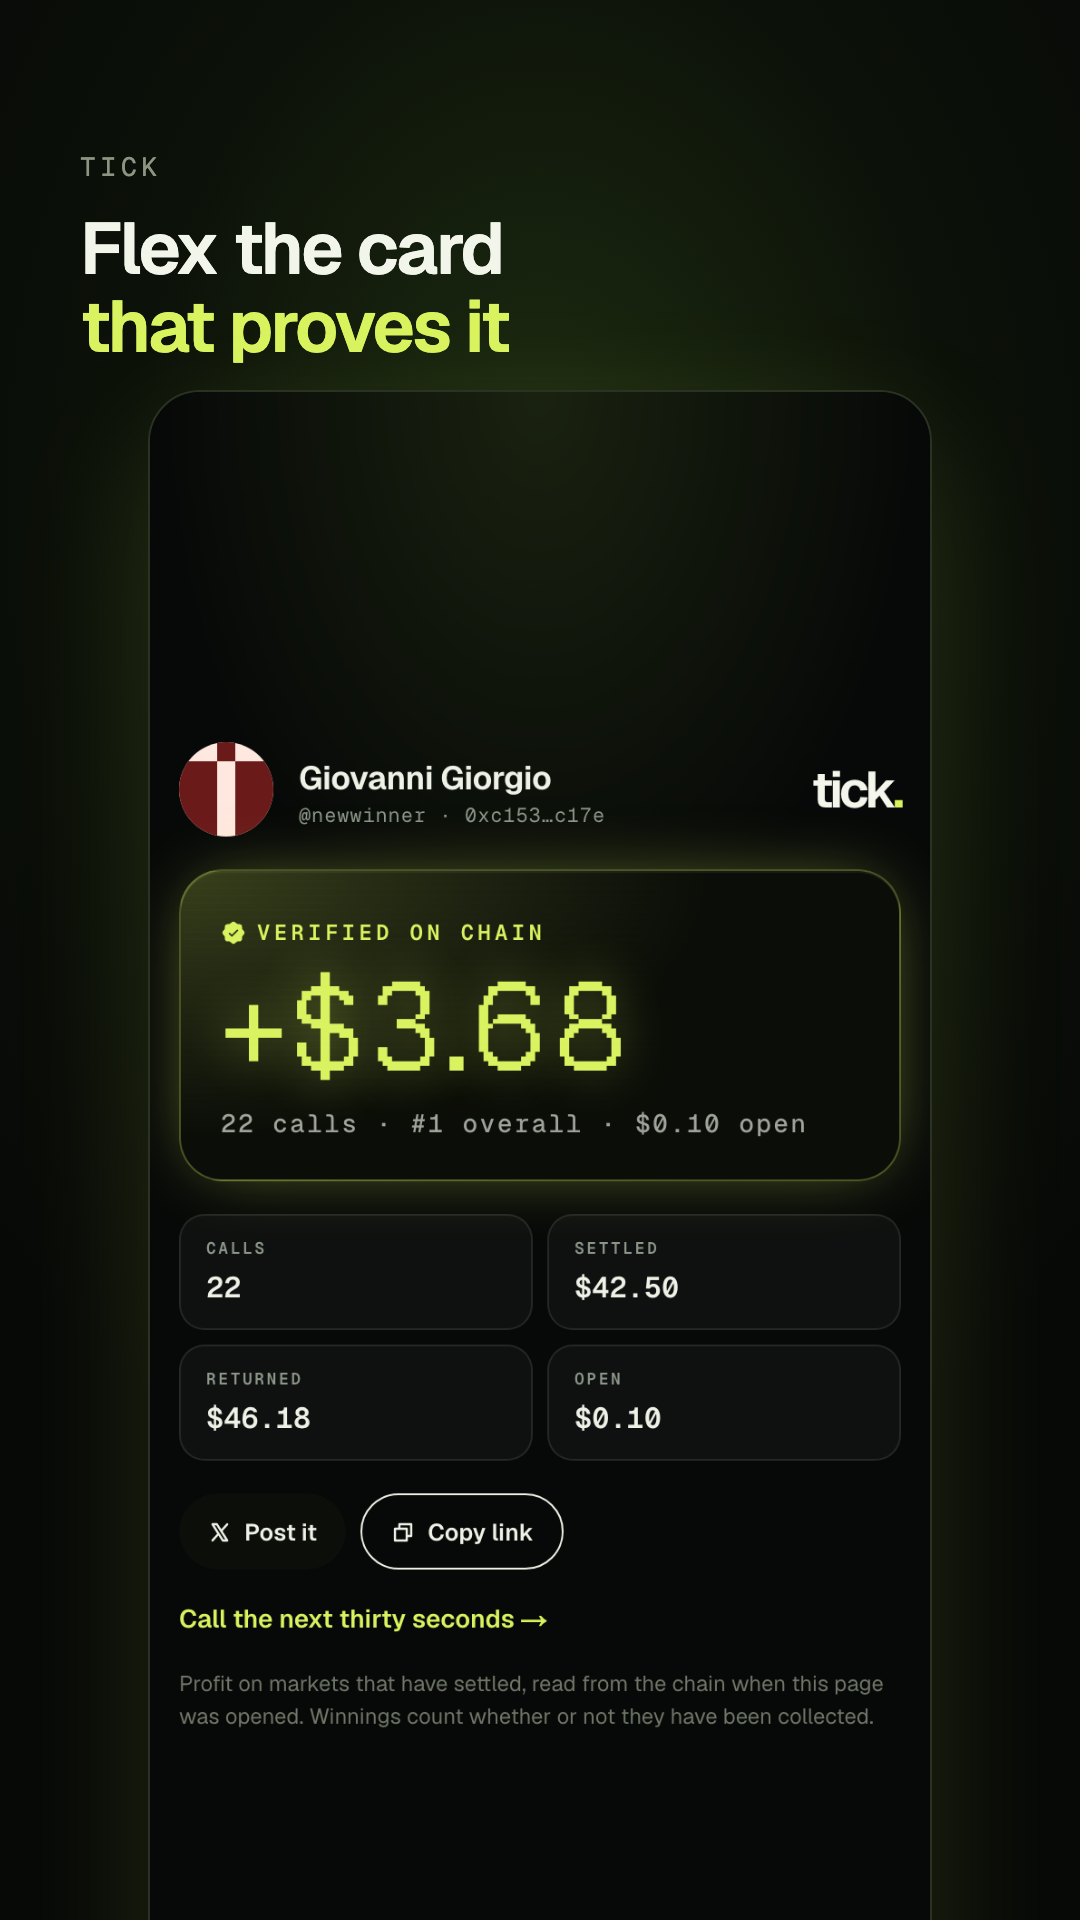
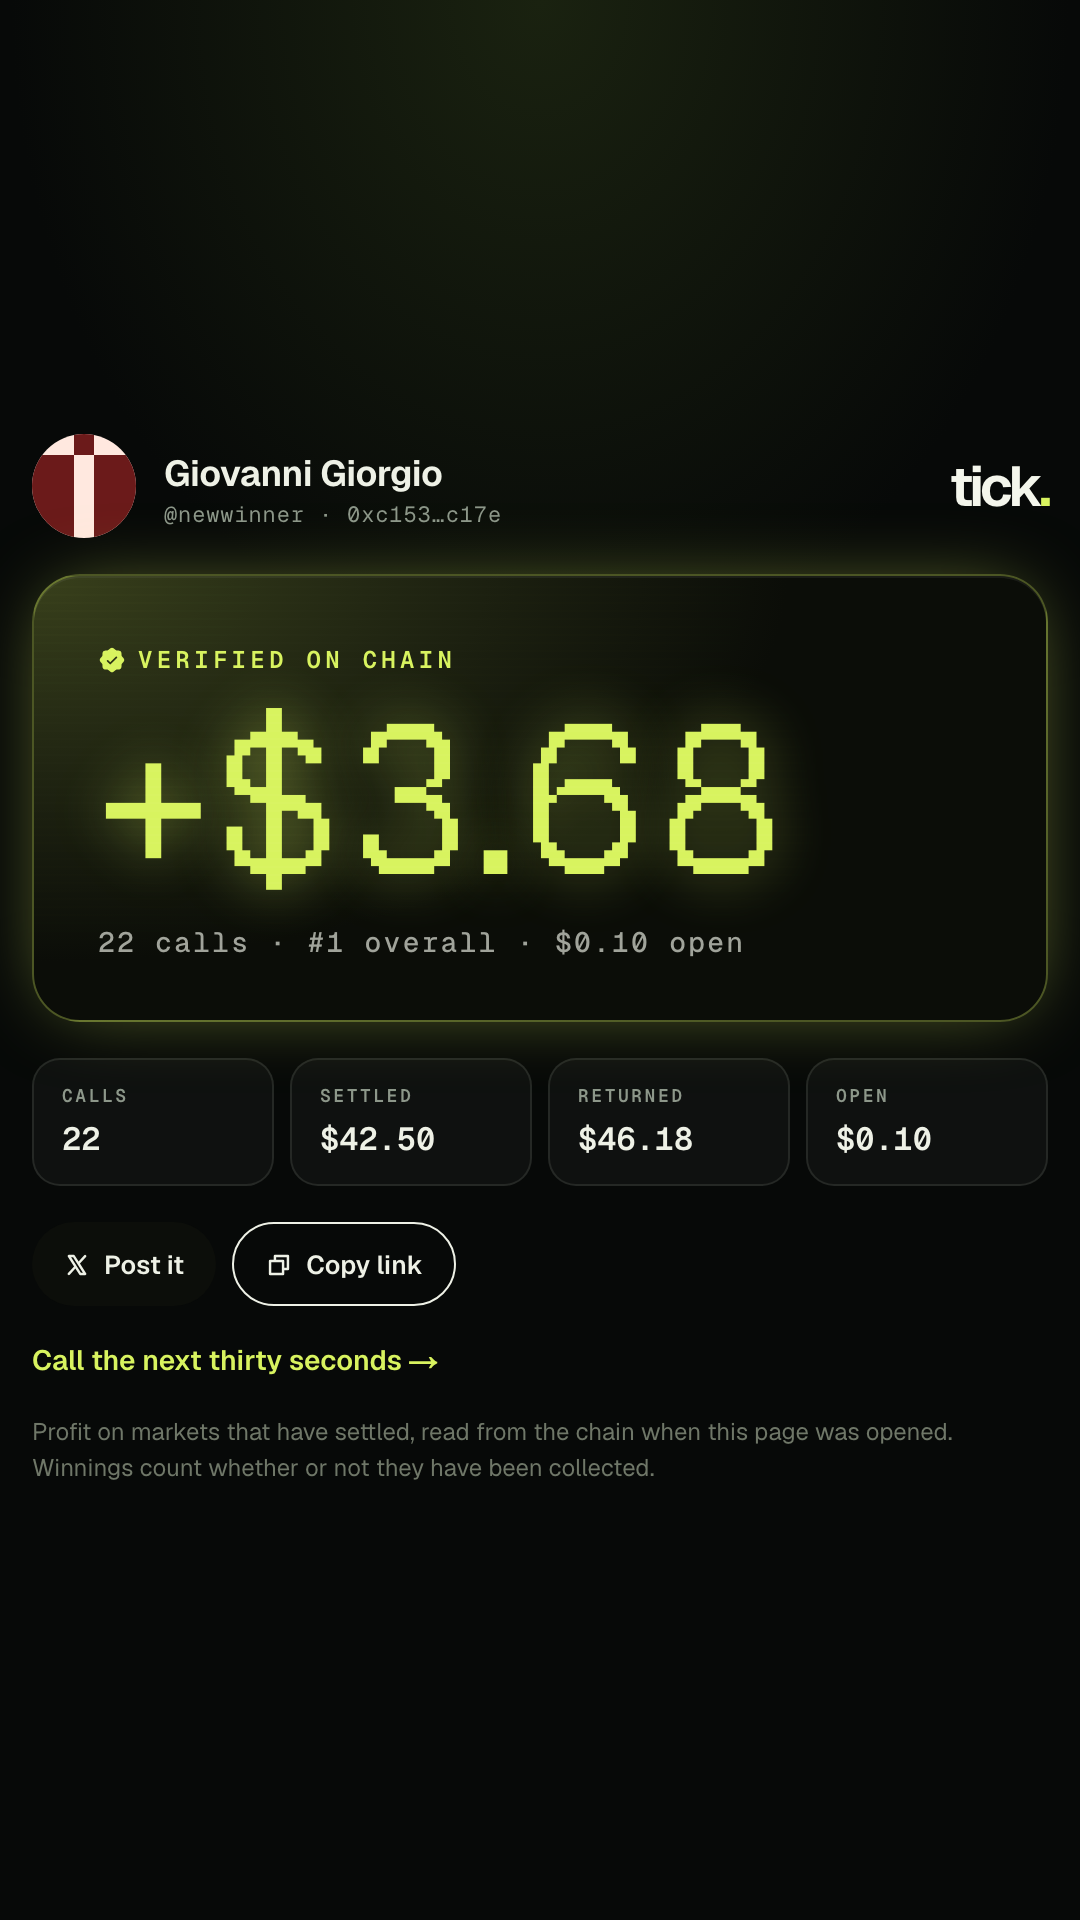
Use full-bleed portrait captures as the store previews and refresh the README
The previews are now native 1080x1920 mobile views; the captioned versions move
to media/store/branded. The README covers the social layer, lists every deployed
contract and states the Solana port as in progress.

diff --git a/README.md b/README.md
@@ -1,35 +1,68 @@
 # Tick
 
-30-second price markets on Monad. Stake **ABOVE** or **BELOW** a strike; when the window closes, the contract reads Pyth and pays the winning side from the losing side. No reporter, no operator signature, no dispute window: the outcome is a comparison anyone can recompute.
+**The world's first 30-second prediction market, played with your friends.**
+Start a room, call the same thirty seconds as your crew, race a live scoreboard, and post the card that proves what you made. Every result is read from chain, so nobody can fake a win.
 
-## How it works
+Live at **[tick-predict.xyz](https://tick-predict.xyz)** · Android APK in `mobile/dist/tick.apk`
+
+## What it does
+
+- **Call a window.** Will this price be higher thirty seconds from now? Stake **ABOVE** or **BELOW** from ten cents. Crypto, equities and sport.
+- **Compete in a group.** Make a group, open rooms inside it, pick the market everyone calls, and watch a live scoreboard re-sort as each window settles.
+- **Flex the proof.** A win draws a card from your real record, verified against the chain, and posts to the group chat or the public feed.
+- **No seed phrase.** Sign in with Google, a passkey, email or X. Gas is abstracted: you top up a percentage bar, never a native token.
+
+## How the market works
 
 - **A market is its terms.** `(feedId, strike, expo, closesAt)` hashes to the market id, so there is no "create market" transaction. Windows sit on a 30-second grid and the strike for a window is Pyth's price at window open, served identically to every client by `/api/strike`.
 - **Parimutuel.** Winners split the losing pool pro rata, minus a 2% fee on profit. A one-sided market voids and refunds everyone.
-- **Settlement is a race.** The app's own settler waits 10 seconds after the close (`SETTLE_GRACE_S`) before stepping in, so an outside bot gets first shot at the bounty; the app only settles as a fallback. `npm run settler` is such a bot, and `/settlers` shows who won.
-- **Settlement is permissionless and paid.** `settleWithUpdate` takes a signed Pyth update for the exact close second and has Pyth verify it, so a market settles correctly whenever someone gets round to it inside the settle window. The caller earns half the market's fee (capped at 2 USDC), so outside bots have a reason to do it. `app/scripts/settler.ts` is one.
+- **Settlement is permissionless and paid.** `settleWithUpdate` takes a signed Pyth update for the exact close second and has Pyth verify it, so a market settles correctly whenever someone gets round to it inside the settle window. The caller earns half the market's fee (capped at 2 USDC). The app's own settler waits 10 seconds after the close (`SETTLE_GRACE_S`) so an outside bot gets first shot at the bounty; `/settlers` shows who won.
+- **No reporter, no dispute window.** The outcome is a comparison anyone can recompute.
 - **Fresh-price cutoff.** A stake is only accepted while the on-chain price is within 10 seconds of fresh. This is the residual latency-arbitrage window, and it is on screen rather than hidden.
-- **Built for Monad's parallelism.** Pools are sharded 64 ways. `contracts/test/Concurrency.t.sol` measures read-after-write conflicts directly and finds none between stakers.
 - **Pyth is a pull oracle,** so the chart reads Hermes off chain for free. An on-chain price update is posted only just before a stake, never on a timer.
 
-## Deployment (Monad testnet, chain 10143)
+## Why a parallel chain
+
+A thirty-second market only works if settlement, staking and every social write land in seconds and cost a fraction of a cent. Serial execution cannot carry it: at the close of a window, every settlement, claim and scoreboard write arrives at once.
+
+Tick is built for that. Pools are sharded 64 ways so stakers never touch the same slot, and `contracts/test/Concurrency.t.sol` measures read-after-write conflicts directly and finds none between stakers. The same design is what makes the Solana port natural: independent accounts per shard, per room and per post, so the whole close-of-window burst is parallelisable.
+
+## Deployments
+
+**Monad testnet (chain 10143)** — live, this is what the app runs against today.
 
 | | |
 |---|---|
 | Tick | `0x16B57356a482Fc5b307bB76D7dC8F5d76A6Be1b2` |
+| TickSocial (groups, rooms, chat) | `0x26307B3c17A0a1e3Fb381c70D7F9584D933a3129` |
+| TickFeed (posts, photos, likes) | `0x26608eDF8e677431fFDDda4d1630D6B99d383433` |
+| TickProfiles | `0xaD241b9D273462F6DBf67D74c8aDa2B907D91c59` |
+| TickSports | `0x26f9cDA88c70bd3D5b005a91AF754a5fc5aF0cE3` |
+| GasStation | `0x1FAE6A8F254505480678D80835E19ECB8236490A` |
 | Stake token | Circle USDC `0x534b2f3A21130d7a60830c2Df862319e593943A3` (6 decimals) |
 | Pyth | `0x2880aB155794e7179c9eE2e38200202908C17B43` |
 | Feeds | BTC/USD, ETH/USD, SOL/USD, TSLA |
+
+Explorer: [testnet.monadscan.com](https://testnet.monadscan.com)
+
+**Solana devnet** — in progress. The market and social programs are being ported now; addresses land in this table as each one deploys, and no claim of a live Solana deployment is made until they do.
 
 ## Pieces
 
 | Path | What it is |
 |---|---|
-| `contracts/` | Foundry project: `Tick.sol`, 48 tests (staking, settlement, solvency fuzzing, concurrency, bounty), deploy scripts |
-| `app/` | Next.js 16 app: trading terminal, `/portfolio`, `/fund`, API routes for strike, live price, price posting and settlement |
-| `indexer/` | Envio HyperIndex over `Staked`, `Settled`, `Claimed`. The RPC caps `getLogs` at about 100 blocks, so wallet history is read from this index |
+| `contracts/` | Foundry project: `Tick.sol`, `TickSocial.sol`, `TickFeed.sol`, `TickProfiles.sol`, `TickSports.sol`, `GasStation.sol`, plus tests for staking, settlement, solvency fuzzing, concurrency and the settler bounty |
+| `app/` | Next.js 16 app: feed, groups, rooms, trading terminal, leaderboard, `/portfolio`, `/fund`, and API routes for strike, live price, price posting, settlement and standings |
+| `indexer/` | Envio HyperIndex over the market and social events. The RPC caps `getLogs` at about 100 blocks, so history is read from this index |
+| `mobile/` | Android wrapper (Trusted Web Activity, package `app.tick.mobile`) and the signed release APK |
+| `media/` | Demo video, launch video and the dApp Store art |
+| `submission/` | Hackathon and dApp Store answers, and the pitch deck PDF |
 
-Sign-in is Privy (email or passkey, with an embedded wallet). Wins are credited to the Tick balance automatically; voided stakes are refunded from the Portfolio page.
+### On-chain social
+
+Groups, rooms, members, avatars and chat live in `TickSocial` storage. Feed posts keep their photo bytes in the event log and the post records the block it landed in, so a photo is recovered with one contract read and one single-block log query. Nothing social is held in a database of ours.
+
+Sign-in is Privy (Google, passkey, email or X, with an embedded wallet). Wins are credited to the Tick balance automatically; voided stakes are refunded from the Portfolio page.
 
 ## Trade from Claude Code (MCP)
 
@@ -57,6 +90,9 @@ cd app && npm install && npm run dev
 
 # indexer (Docker for local dev, or deploy `indexer/` on Envio Cloud)
 cd indexer && npm install && npm run codegen && npm run dev
+
+# android (needs the keystore; see mobile/README)
+cd mobile && ./gradlew assembleRelease
 ```
 
 `app/.env.local` (names only; never commit values, never add a `NEXT_PUBLIC_` prefix to the secrets):
@@ -64,6 +100,7 @@ cd indexer && npm install && npm run codegen && npm run dev
 | Variable | Notes |
 |---|---|
 | `OPERATOR_PK` | Server-only. Pays gas for price posts and settlement; testnet key only |
+| `ATTESTOR_PK` | Server-only. Signs sports result attestations |
 | `PYTH_API_KEY` | Server-only. Hermes requires a bearer token |
 | `NEXT_PUBLIC_PRIVY_APP_ID` | Public by design |
 | `PRIVY_APP_SECRET` | Server-only |
@@ -76,6 +113,7 @@ A new wallet with no MON is sent 0.2 MON automatically on its first stake (`/api
 - `app/scripts/bounty-e2e.ts`: two stakers, an outside settler holding only MON. The settler earned exactly half the 2% fee in USDC, and payouts plus fee plus bounty accounted for the whole stake.
 - `app/scripts/browser-flow.ts`: replays the UI's exact approve, deposit, stake, settle, claim path from a cold wallet.
 - `app/scripts/settler.ts`: a standalone bot that discovers closed markets from `Staked` events and settles them.
+- `app/scripts/standings-check.ts`: rebuilds every trader's realised profit from `Settled` events and checks it against what the app shows.
 
 ## Limits worth knowing
 
